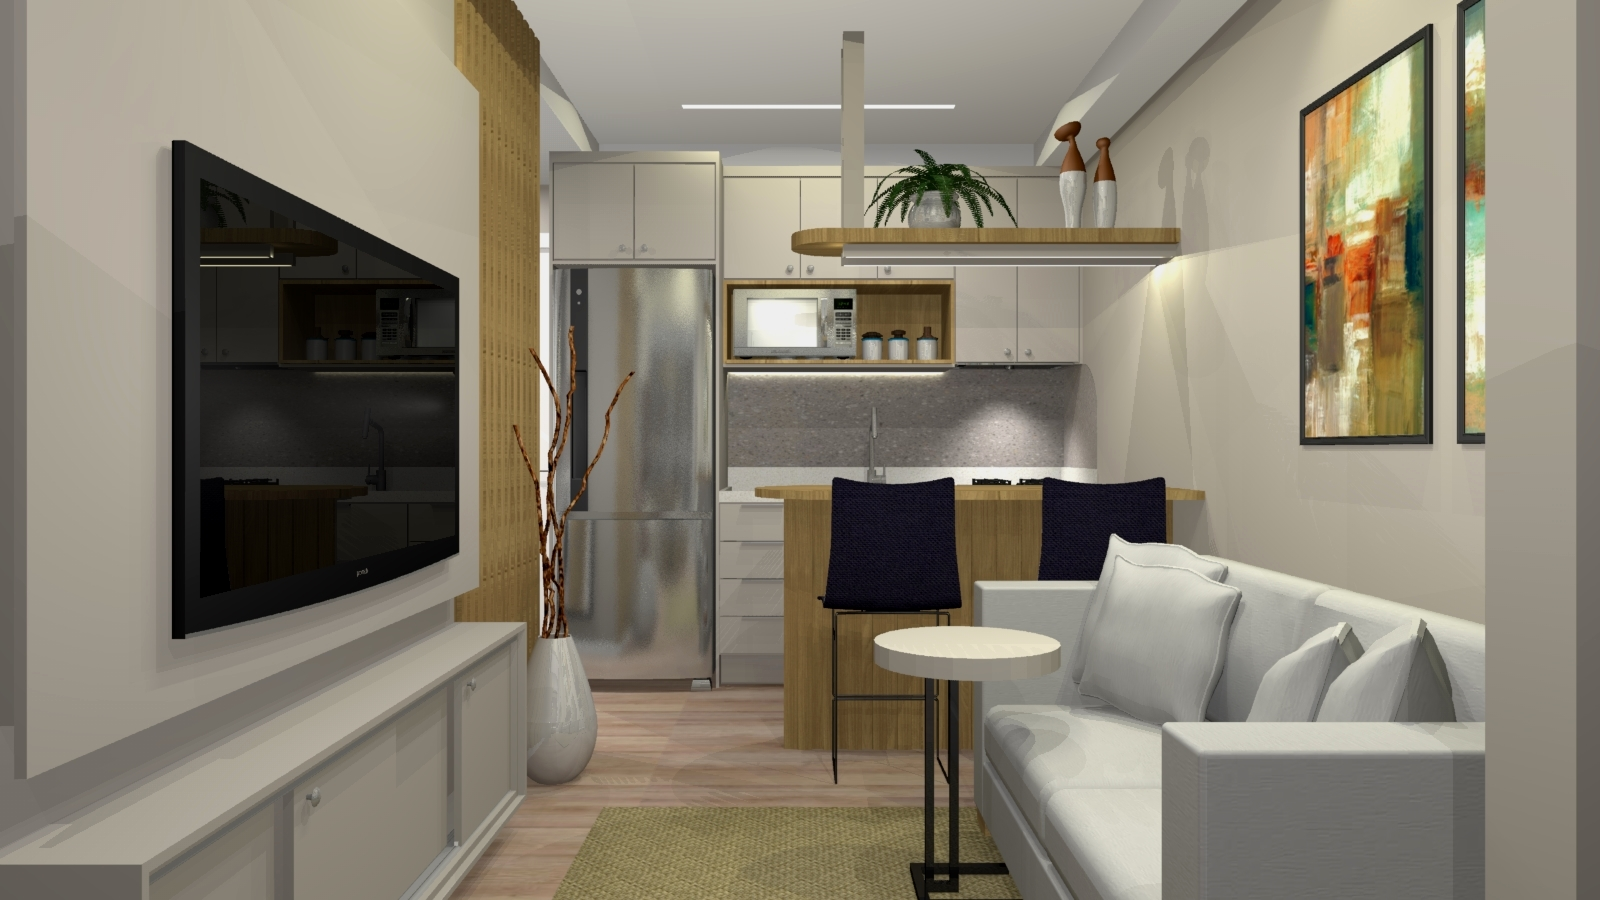
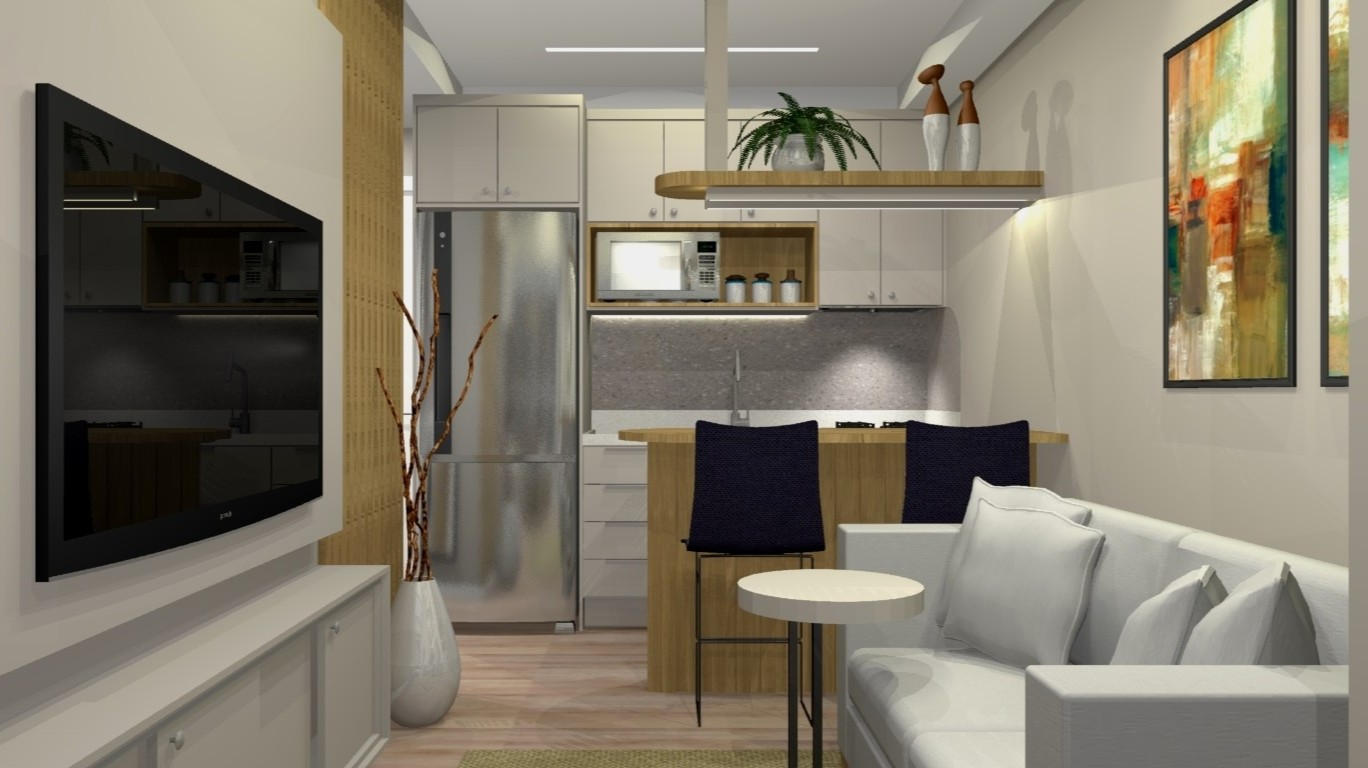
ajustes inicio

diff --git a/CSS/style.css b/CSS/style.css
@@ -18,6 +18,10 @@
       font-size: 1.5rem;
    }
 
+   ul, ol {
+      list-style: none;
+   }
+
 
 }
 /* #endregion */
@@ -83,7 +87,7 @@
    /* height: 50vh; */
    /* padding: 20%; */
    width: 100%;
-
+   font-size: 1.5rem;
    display: flex;
    justify-content: center;
    align-items: center;
@@ -91,16 +95,43 @@
    /* font-size: 100px; */
    /* font-weight: 500; */
  }
-#projetos{
-   /* min-height: 100vh; Ajuste da altura minima da tela */
-   /* background-color: #445168; */
+
+.Imagens1-2{
+
+   width: 100%;
+   height: 520px;
    display: flex;
-   justify-content: center; /* centraliza horizontal */
-   align-items: center; /* centraliza vertical */
-   color: white;
-   /* font-size: 100px; */
-   font-weight: 500;
+   flex-direction: row;
+   justify-content:center;
+   align-items: center;
 }
+
+.Imagens2-4{
+
+   width: 100%;
+   height: 520px;
+   display: flex;
+   flex-direction: row;
+   justify-content:center;
+   align-items: center;
+   
+}
+
+
+.Imagens1-2 ul li img{
+   width: 95%;
+   height: 500px;
+}
+
+.Imagens2-4 ul li img{
+   width: 95%;
+   height: 500px;
+}
+
+/* .img4{
+   margin-right:
+} */
+
 #contato{
    min-height: 100vh; /* Ajuste da altura minima da tela */
    background-color: #707988;

diff --git a/index.html b/index.html
@@ -29,18 +29,30 @@
         impedit iure assumenda ad?
     </section>
 
-    <div class="projetosTitulo">
-        <h2>Projetos</h2>
-    </div>
-
-    <section id="projetosSection">Lorem ipsum dolor sit amet consectetur, adipisicing elit. Delectus, saep
-        <div class="projetosConteudo">
-
-            <img src="" alt="">
-            <img src="" alt="">
-            <img src="" alt="">
-            <img src="" alt="">
+    <section id="projetos">
+            <h2>Projetos</h2>
+            <ul class="texto">
+                <li>
+                    <p>Lorem ipsum dolor sit amet consectetur, adipisicing elit. Delectus, saep</p>
+                </li>
+            </ul>
+        <div class="Imagens1-2">
+            <ul class="img1">
+                <li><img src="./img/CARLOS - 2026/CARLOS - 2026/A reduz.jpeg" alt="img1"></li>
+            </ul>
+            <ul class="img2">
+                <li><img src="./img/LAURA E GUSTAVO/LAURA E GUSTAVO/8.jpg" alt="img2"></li>
         </div>
+        <div class="Imagens2-4">
+            </ul>
+            <ul class="img3">
+                <li><img src="./img/TÂNIA 2024/TÂNIA 2024/7.jpg" alt="img3"></li>
+            </ul>
+            <ul class="img4">
+                <li><img src="./img/LAURA E GUSTAVO/LAURA E GUSTAVO/RenderY reduz.jpg" alt="img4"></li>
+            </ul>
+        </div>
+    
     </section>
 
     <section id="portfolio">